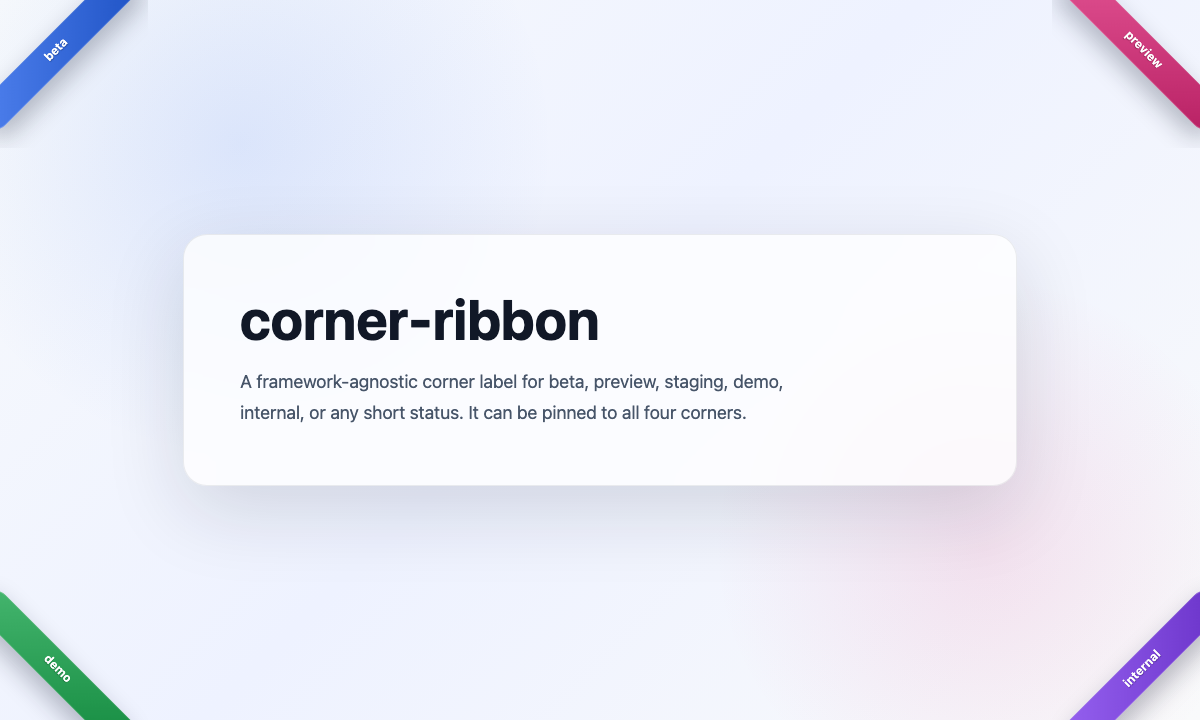
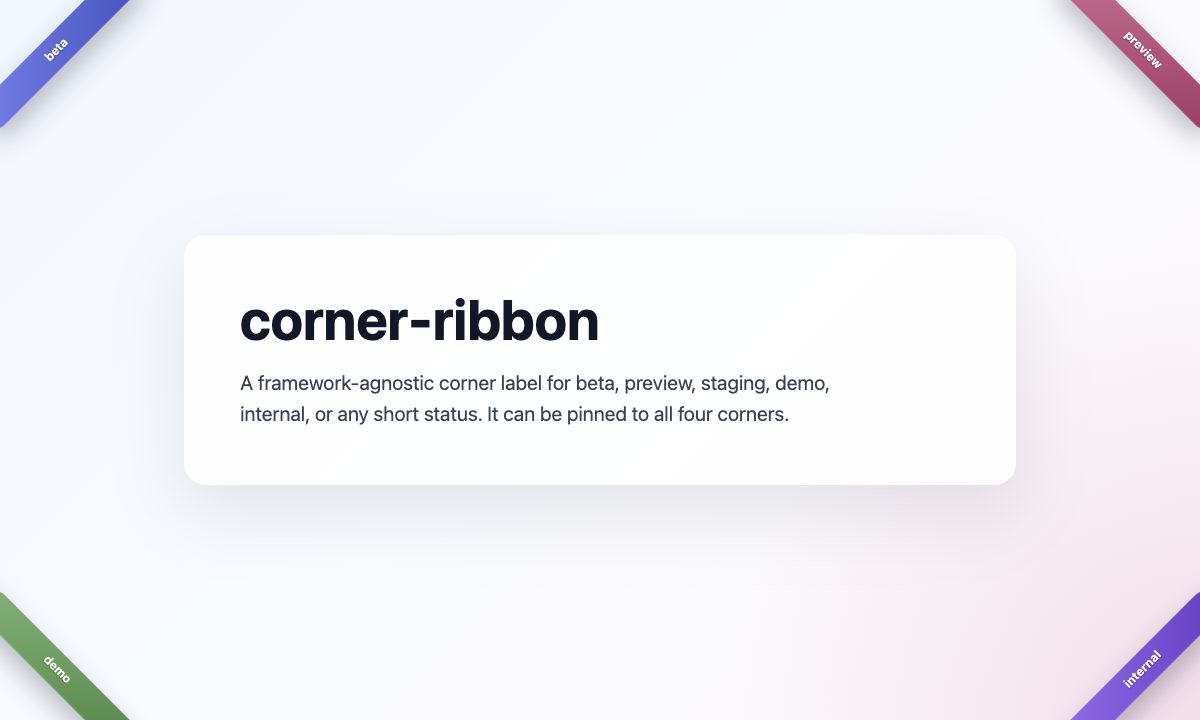
Fix ribbon shadow clipping

diff --git a/src/ribbon.ts b/src/ribbon.ts
@@ -137,7 +137,7 @@ export const createCornerRibbon = (options: CornerRibbonOptions = {}): HTMLEleme
     width: '148px',
     height: '148px',
     position: 'fixed',
-    overflow: 'hidden',
+    overflow: 'visible',
     zIndex: String(config.zIndex),
     pointerEvents: 'none',
     ...position.wrapper,